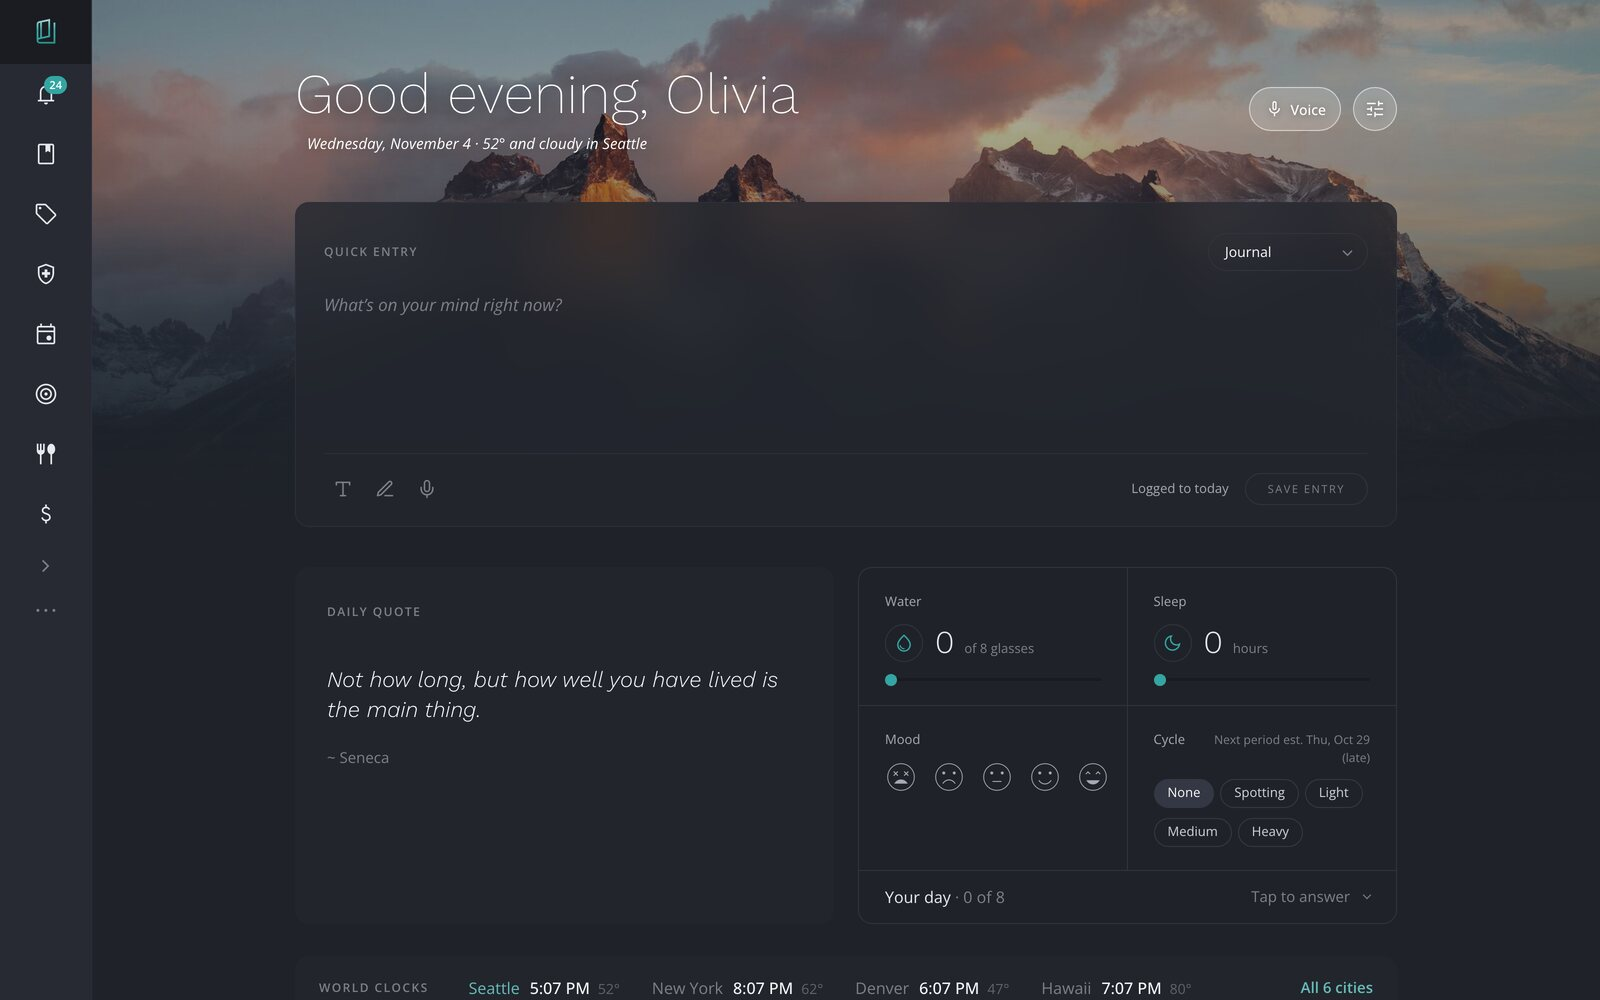
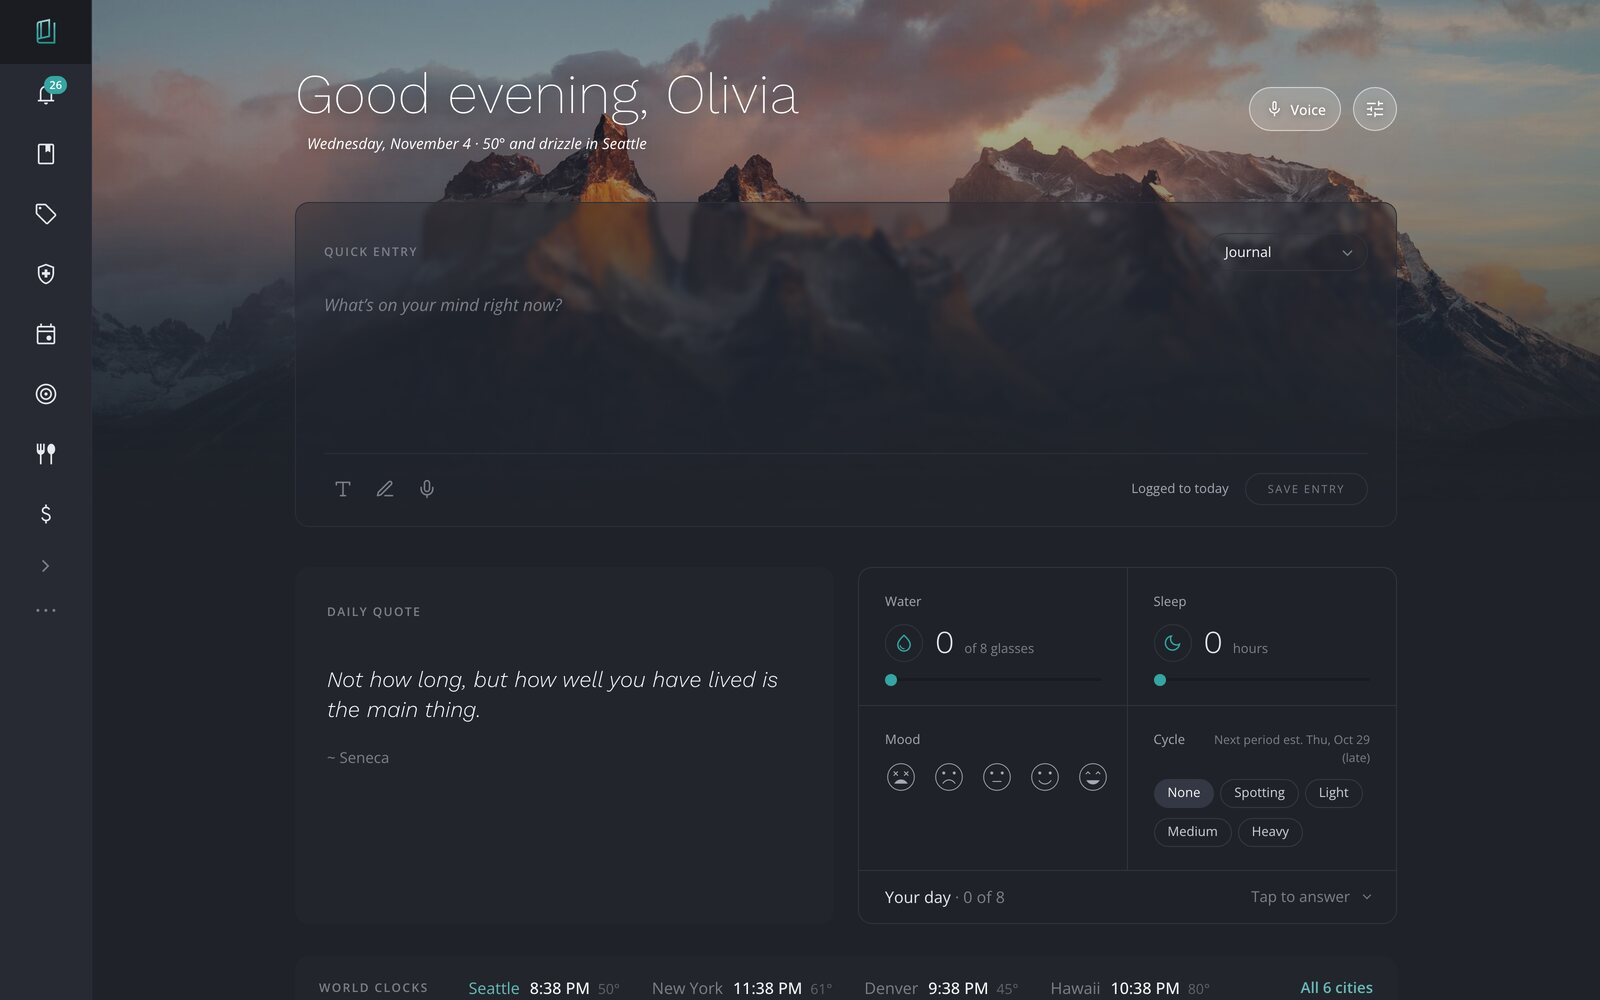
Quick entry shows the photo through it; new dashboard shots; README screenshots
- On a wallpaper the dashboard's Quick entry is lighter (40%) with only a
  slight blur (3px), so the photo shows through; other cards keep the frost
- Dashboard hero (light, dark) and features shots retaken
- README points at the repo's current screenshots (dashboard, journal, topics,
  planning, kitchen, finance, settings); Finance text no longer mentions the
  removed paycheck reconcile

diff --git a/client/src/styles/wallpaper.ts b/client/src/styles/wallpaper.ts
@@ -5,12 +5,14 @@ import { css } from 'styled-components';
    a little see-through with the photo blurred behind them, controls a light
    glass pill, and the page's title text white. Nothing changes without one. */
 
-/** Cards: the panel colour, a little see-through, the photo blurred behind */
+/** Cards: the panel colour, a little see-through, the photo blurred behind.
+ *  --glass-solid / --glass-blur set how much (the Quick entry lowers both so
+ *  the photo shows through it) */
 export const glassCard = css`
   html[data-wallpaper] & {
-    background: color-mix(in srgb, var(--bg-panel) 76%, transparent);
-    -webkit-backdrop-filter: blur(22px) saturate(1.15);
-    backdrop-filter: blur(22px) saturate(1.15);
+    background: color-mix(in srgb, var(--bg-panel) var(--glass-solid, 76%), transparent);
+    -webkit-backdrop-filter: blur(var(--glass-blur, 22px)) saturate(1.15);
+    backdrop-filter: blur(var(--glass-blur, 22px)) saturate(1.15);
   }
 `;
 

diff --git a/client/src/components/organisms/EntryForm.tsx b/client/src/components/organisms/EntryForm.tsx
@@ -405,6 +405,9 @@ const QuickCard = styled.section`
   font-family: var(--font-sans);
   @media (max-width: 768px) { padding: 22px 24px 26px; }
   @media (max-width: 480px) { padding: 20px 18px 22px; }
+  /* On a wallpaper the photo shows through the Quick entry: a lighter fill and
+     only a slight blur (the other cards keep the usual frost) */
+  html[data-wallpaper] & { --glass-solid: 40%; --glass-blur: 3px; }
   ${glassCard}
 `;
 

diff --git a/CLAUDE.md b/CLAUDE.md
@@ -585,7 +585,7 @@ const posts = await getAllPosts(req.auth.tenantSchemaName);
 - Features: enable/disable health tracking, planning, entertainment, and more per topic type; opt-in Finance
 - Calendar Sync: Google gets only an event's title, times and location (`toGooglePayload` has no description; `canonicalizePayload` keeps a blank description slot so older hashes still match). Events Chronicles created get their old description cleared once (`_sync.detailsCleared`); an imported event's own Google description is never touched; a linked entry's notes / phone / attendees are never overwritten from Google (`fromGoogleEvent` reads the description only `withDetails`, on import). Under the Apple Calendar feed, **Include event details** (`icsIncludeDetails`, private, off by default) — the feed is stored readable on the server, so without it the feed carries only title, time and place, no descriptions (`icsPhase` in `services/calendarSync.ts`)
 - Theme: header color (40+), **Light / Dark / Auto** — Auto follows the local clock (light 7 AM – 7 PM, dark otherwise; `utils/autoTheme.ts`). The saved `themeMode` setting holds the choice (`'light' | 'dark' | 'auto'`); `uiStore.themePreference` is that choice and `uiStore.themeMode` the theme in effect (everything that styles by theme reads `themeMode`). While Auto is on, `App.tsx` re-checks every minute and when the tab returns. **No flash on load**: the choice is remembered per browser (`rememberTheme` / `startingTheme` in `utils/autoTheme.ts`, `localStorage` `chronicles.theme-v1`, written by `setThemePreference`), so a fresh load — and the sign-in pages, before any settings are read — starts in it, **light** when nothing's remembered; `main.tsx` sets `data-theme` and the page colour (`PAGE_COLOR`) before the first render, `App.tsx` applies the tokens in a layout effect (before paint) and keeps `<meta name="theme-color">` on the page colour; `index.html`'s fallback background and the PWA manifest's `theme_color` / `background_color` (the launch screen) are the light `#f4f5f7`
-- **Background** (Settings → Theme): a wallpaper — by default Marek Piwnicki's mountains at sunset (`DEFAULT_WALLPAPER`, the one in the landing screenshots) — or **None** — 27 Unsplash photos (`utils/wallpapers.ts`: id, photographer, the photo's page; credits come from Unsplash's file names, `name-<11-char id>-unsplash.jpg`). Served from `public/wallpapers/<id>.jpg` (2,400px, ~500 KB) and `public/wallpapers/thumbs/` (480 × 300), fetched only once chosen — never precached (a `CacheFirst` runtime cache keeps the chosen one for offline); the originals sit in `src/assets/wallpaper/`, git-ignored. The picker (`molecules/WallpaperPicker.tsx`) is a grid of thumbnails, each with its credit on it — "Photo by <name> on Unsplash", linking to the photo and Unsplash — the chosen one outlined in the accent with a tick. Saved as the sealed setting `wallpaper` (in `SEALED_SETTING_KEYS`, loaded by `WallpaperSync` in `App.tsx`): a photo's id, or `'none'` (`NO_WALLPAPER`) for None — nothing saved means the default, and a photo since removed falls back to it (`resolveWallpaper`) and remembered per browser (`localStorage` `chronicles.wallpaper-v1`) so a reload shows it at once; `uiStore.wallpaper`. `organisms/Wallpaper.tsx` draws it at the top of every signed-in page but the Calendar (its grid starts at the very top — no header room, and dates over a photo don't read) (`ContentTemplate`'s `Main`, `JournalTemplate`'s `Page`, `SettingsTemplate`'s `Body` — each `position: relative; isolation: isolate`, so the photo, at `z-index: -1`, sits over the page colour and under the content): `min(300px, 38vh)` tall on every page (positioned `center 55%`) — the title, its header controls and the tabs, faded out by a long eased mask (solid to 22%, thinning gradually to nothing at its foot — no visible edge) before the content and any second title start (the dashboard's is `min(520px, 60vh)`, behind the frosted Quick entry — `ContentTemplate`'s `wallpaperHeight`), a light shade at the top (deeper in dark, so a bright photo still sits in the dark page), masked to fade into the page colour, scrolling away with the page — most pages scroll inside a full-height panel of their own rather than the element the photo sits in, so the layer follows that panel's scroll (a capture-phase scroll listener on its parent translates it; scrolling boxes under 70% of the page's height — tables, the menu grid — are ignored; each page mounts its own layer, so it starts unscrolled; the journal passes `follow={false}`, its title row never scrolls) — fading in once loaded. While it shows, `<html data-wallpaper>` switches on `styles/wallpaper.ts`: `glassCard` (cards see-through panel colour + a blurred photo — Quick entry, the dashboard's widget, Next up / quote and clocks cards, `DashPanel`, `CollapsibleCard`), `glassControl` (fields on the photo, frosted page colour solid enough to read — the journal's search and Today / All / Bookmarks, `RoundSearch`, Planning's search / sort / List | Board / filter pills, the ⋯ view menu, `FilterTabs`, `JoinedGroup`, Finance's `MonthPillBox`), `glassPill` (buttons on the photo as white glass pills with white text — Voice, the sliders, the journal's New entry; and every page's main action beside its title through `TopBarAction`'s `.page-action` wrapper, GlobalStyle) and `onPhoto` / the `.view-title` rule (the greeting, its date line and every page title in white with a soft shadow), the section tabs (`SectionTab`: white text with a shadow, the chosen one full white over its accent underline, a light rule) and clear list rows (`entryRowPlain` reads `--row-plain-bg`, set transparent under `html[data-wallpaper]`, so Topics and the other lists don't stripe the photo; hover and the active row keep their fills); in the journal the list and editor panels go transparent with their top bars frosted (`glassBar` — the tool row, the date bar, Bulk edit, the editor's top bar) while the entry rows and the editor's body stay solid page colour (`solidUnderPhoto`), so the photo never runs behind content
+- **Background** (Settings → Theme): a wallpaper — by default Marek Piwnicki's mountains at sunset (`DEFAULT_WALLPAPER`, the one in the landing screenshots) — or **None** — 27 Unsplash photos (`utils/wallpapers.ts`: id, photographer, the photo's page; credits come from Unsplash's file names, `name-<11-char id>-unsplash.jpg`). Served from `public/wallpapers/<id>.jpg` (2,400px, ~500 KB) and `public/wallpapers/thumbs/` (480 × 300), fetched only once chosen — never precached (a `CacheFirst` runtime cache keeps the chosen one for offline); the originals sit in `src/assets/wallpaper/`, git-ignored. The picker (`molecules/WallpaperPicker.tsx`) is a grid of thumbnails, each with its credit on it — "Photo by <name> on Unsplash", linking to the photo and Unsplash — the chosen one outlined in the accent with a tick. Saved as the sealed setting `wallpaper` (in `SEALED_SETTING_KEYS`, loaded by `WallpaperSync` in `App.tsx`): a photo's id, or `'none'` (`NO_WALLPAPER`) for None — nothing saved means the default, and a photo since removed falls back to it (`resolveWallpaper`) and remembered per browser (`localStorage` `chronicles.wallpaper-v1`) so a reload shows it at once; `uiStore.wallpaper`. `organisms/Wallpaper.tsx` draws it at the top of every signed-in page but the Calendar (its grid starts at the very top — no header room, and dates over a photo don't read) (`ContentTemplate`'s `Main`, `JournalTemplate`'s `Page`, `SettingsTemplate`'s `Body` — each `position: relative; isolation: isolate`, so the photo, at `z-index: -1`, sits over the page colour and under the content): `min(300px, 38vh)` tall on every page (positioned `center 55%`) — the title, its header controls and the tabs, faded out by a long eased mask (solid to 22%, thinning gradually to nothing at its foot — no visible edge) before the content and any second title start (the dashboard's is `min(520px, 60vh)`, behind the frosted Quick entry — `ContentTemplate`'s `wallpaperHeight`), a light shade at the top (deeper in dark, so a bright photo still sits in the dark page), masked to fade into the page colour, scrolling away with the page — most pages scroll inside a full-height panel of their own rather than the element the photo sits in, so the layer follows that panel's scroll (a capture-phase scroll listener on its parent translates it; scrolling boxes under 70% of the page's height — tables, the menu grid — are ignored; each page mounts its own layer, so it starts unscrolled; the journal passes `follow={false}`, its title row never scrolls) — fading in once loaded. While it shows, `<html data-wallpaper>` switches on `styles/wallpaper.ts`: `glassCard` (cards see-through panel colour + a blurred photo — Quick entry, the dashboard's widget, Next up / quote and clocks cards, `DashPanel`, `CollapsibleCard`; how solid is `--glass-solid` and how blurred `--glass-blur`: 76% and 22px by default; the dashboard's Quick entry card sets 40% and 3px, so the photo shows through it), `glassControl` (fields on the photo, frosted page colour solid enough to read — the journal's search and Today / All / Bookmarks, `RoundSearch`, Planning's search / sort / List | Board / filter pills, the ⋯ view menu, `FilterTabs`, `JoinedGroup`, Finance's `MonthPillBox`), `glassPill` (buttons on the photo as white glass pills with white text — Voice, the sliders, the journal's New entry; and every page's main action beside its title through `TopBarAction`'s `.page-action` wrapper, GlobalStyle) and `onPhoto` / the `.view-title` rule (the greeting, its date line and every page title in white with a soft shadow), the section tabs (`SectionTab`: white text with a shadow, the chosen one full white over its accent underline, a light rule) and clear list rows (`entryRowPlain` reads `--row-plain-bg`, set transparent under `html[data-wallpaper]`, so Topics and the other lists don't stripe the photo; hover and the active row keep their fills); in the journal the list and editor panels go transparent with their top bars frosted (`glassBar` — the tool row, the date bar, Bulk edit, the editor's top bar) while the entry rows and the editor's body stay solid page colour (`solidUnderPhoto`), so the photo never runs behind content
 - Data: Export All (and per-area exports); seed test data in development builds only
 
 **Entry Images**

diff --git a/README.md b/README.md
@@ -6,14 +6,15 @@ Chronicles is now available to sign up for beta testing at [mydailychronicles.co
 
 ### Dashboard
 Your day at a glance, in light or dark mode: a greeting with the date and local weather, a daily quote or your next medications, a wellness check-in for water, sleep, mood and cycle, world clocks, today's priorities, what's coming up, today's menu, your medication doses and your open shopping list. Choose which sections show with **Customize view**.
-<img width="1600" height="1000" alt="dashboard-dark" src="https://github.com/user-attachments/assets/553e4f1e-126a-46c5-8ae0-cedbc3c99034" />
-<img width="1268" height="1300" alt="dashboard" src="https://github.com/user-attachments/assets/4730ff94-ecf0-4fe6-82c5-cd69398f5411" />
+<img width="1600" height="1000" alt="The dashboard in light mode with a mountain photo behind the greeting and Quick entry" src="client/src/assets/landing/dashboard.jpg" />
+<img width="1600" height="1000" alt="The dashboard in dark mode" src="client/src/assets/landing/dashboard-dark.jpg" />
+<img width="1268" height="1300" alt="The top of the dashboard: the greeting, Quick entry, daily quote, wellness check-in and world clocks" src="client/src/assets/landing/features/dashboard.jpg" />
 <img width="1268" height="1300" alt="dashboard-2" src="https://github.com/user-attachments/assets/be1ce9b0-5700-4340-a0e2-94758b429036" />
 
 ### Journal
 The main view, and where the app opens. Pick a topic, write a line (or fill in the topic's fields) and save. Entries are grouped by month, with Today, All and Bookmarks views and search by keyword, topic and date. The editor has rich text, encrypted photos stored in your own Cloudflare R2 bucket( Bring your key), voice dictation, Apple Pencil handwriting and drawing, bookmarks and public share links. Open an entry from any other page and saving takes you back there.
 
-<img width="1460" height="738" alt="Screenshot 2026-10-17 at 9 44 50 PM" src="https://github.com/user-attachments/assets/063bd93e-17e8-4b6b-9951-366ab3ef7b8c" />
+<img width="1268" height="1000" alt="The journal with entries by month and an entry open" src="client/src/assets/landing/features/journal.jpg" />
 
 ### Health
 A health dashboard with today's nutrition against your goals, a wellness check-in, quick meal and exercise logging and your medication schedule, plus tabs for Meals, Exercise, Symptoms, Med list and Allergies. Marking a dose taken adds its nutrients (a vitamin D supplement, say) to the day's totals. Reports chart water, mood and sleep over time, symptom frequency and severity, and the patterns between them, such as how water, foods or exercise relate to your symptoms. Medication lists, symptom logs and allergy records print for appointments.
@@ -33,14 +34,16 @@ Optional, and you bring your own key from OpenAI, Claude (Anthropic) or Amazon B
 ### Topics
 Entries are organized by topic — tasks, goals, meals, medication, recipes, books, quotes and more — or your own. Add, remove and reorder topics, choose their icons and give them custom fields (text, number, date, yes/no, link). Each topic's page lists its entries by month, with search. A topic can hide the text area so its entries are fields only, titled from what you filled in ("Piranesi — Susanna Clarke").
 
-<img width="1454" height="746" alt="Screenshot 2026-10-17 at 9 47 38 PM" src="https://github.com/user-attachments/assets/c7177ae8-6287-44d3-97d3-58ea72660437" />
+<img width="1268" height="1000" alt="The Topics list with an icon and entry count for each topic" src="client/src/assets/landing/features/topics.jpg" />
 <img width="1464" height="731" alt="Screenshot 2026-10-17 at 9 47 49 PM" src="https://github.com/user-attachments/assets/9dbbb374-3cd1-4ea6-bb44-382f754a276f" />
 
 ### Planning
 Goals, milestones, tasks and todos on Kanban boards or as lists. Drag a card to another column to change its status, or up and down to set its order. Milestones roll up into goals and tasks into milestones. Search, sort and filter by goal, milestone or status, and save the views you use often.
 
-<img width="1460" height="732" alt="Screenshot 2026-10-17 at 9 52 16 PM" src="https://github.com/user-attachments/assets/c3f87add-04a1-4e2b-afe0-4ad9d32a6ea5" />
-<img width="1455" height="734" alt="Screenshot 2026-10-17 at 9 52 02 PM" src="https://github.com/user-attachments/assets/bf3f6c0e-b0c3-4acb-9267-faffa85be020" />
+<img width="1268" height="900" alt="Tasks by status with priorities, deadlines and the milestone they roll up to" src="client/src/assets/landing/features/planning-tasks.jpg" />
+<img width="1268" height="900" alt="The goals board with columns from New to Achieved" src="client/src/assets/landing/features/planning.jpg" />
+<img width="1268" height="900" alt="Milestones on their own board, each under its goal" src="client/src/assets/landing/features/planning-milestones.jpg" />
+<img width="1268" height="900" alt="Todos as a list, with done ones struck through" src="client/src/assets/landing/features/planning-todos.jpg" />
 
 ### Calendar
 Day, week and month views of what's scheduled: events, meetings, task deadlines, goal target dates and bills due. Two-way sync with Google Calendar and a private subscription feed for Apple Calendar. Only titles, times and locations are synced, never your journal.
@@ -50,17 +53,17 @@ Day, week and month views of what's scheduled: events, meetings, task deadlines,
 ### From the Kitchen
 A kitchen dashboard with today's meals and your shopping list, a weekly menu planner, recipes and shopping lists. Recipes have checkable ingredients, numbered steps, a photo and a print view. Link recipes to menu slots and shopping lists, and turn a week's menu into a shopping list in one tap.
 
-<img width="1458" height="735" alt="Screenshot 2026-10-17 at 9 54 58 PM" src="https://github.com/user-attachments/assets/254e2ef1-d66c-4d53-b66e-b8d8fec047b9" />
+<img width="1600" height="1000" alt="The kitchen dashboard with today's meals and the shopping list" src="client/src/assets/landing/kitchen.jpg" />
 <img width="1450" height="740" alt="Screenshot 2026-10-17 at 9 55 07 PM" src="https://github.com/user-attachments/assets/0670fe02-87e2-422e-83fe-48a1da800f8c" />
 <img width="1120" height="743" alt="Screenshot 2026-10-17 at 9 56 35 PM" src="https://github.com/user-attachments/assets/f2934c16-c80b-410c-a2a7-08f794a5b4d7" />
 <img width="1455" height="726" alt="Screenshot 2026-10-17 at 9 55 39 PM" src="https://github.com/user-attachments/assets/af53e857-de29-423e-bebb-e1e696db768d" />
 
 ### Finance (optional)
-Off until you turn it on in Settings. A manual budget by category, bills and subscriptions (mark paid, pause, cancel), savings funds, money goals, and reports on what you've paid by bill, category, month or year, with an optional paycheck reconcile. It's all encrypted in your browser and there are no bank connections. Export everything as CSV spreadsheets plus a JSON backup. See the [Finance disclaimer](#finance).
+Off until you turn it on in Settings. A manual budget by category, bills and subscriptions (mark paid, pause, cancel), savings funds, money goals, a current balance that keeps itself up to date as you pay bills and log spending, and reports on what you've paid by bill, category, month or year. It's all encrypted in your browser and there are no bank connections. Export everything as CSV spreadsheets plus a JSON backup. See the [Finance disclaimer](#finance).
 
-<img width="1464" height="739" alt="Screenshot 2026-10-17 at 9 52 36 PM" src="https://github.com/user-attachments/assets/67bd72a4-63e2-4dbd-8748-890fd9ed1fda" />
-<img width="1448" height="743" alt="Screenshot 2026-10-17 at 9 52 47 PM" src="https://github.com/user-attachments/assets/dfa05480-7530-47ab-80c5-e4eac0ced4ad" />
-<img width="1460" height="739" alt="Screenshot 2026-10-17 at 9 52 58 PM" src="https://github.com/user-attachments/assets/ea31a2eb-9e5a-486a-9f21-04ed740edae1" />
+<img width="1268" height="1440" alt="The budget with the current balance, and planned, bills, spending and what's left by category" src="client/src/assets/landing/features/finance.jpg" />
+<img width="1268" height="1440" alt="Bills and subscriptions with what's due and overdue" src="client/src/assets/landing/features/finance-bills.jpg" />
+<img width="1268" height="1440" alt="Savings funds with their targets and entries" src="client/src/assets/landing/features/finance-savings.jpg" />
 <img width="1454" height="737" alt="Screenshot 2026-10-17 at 9 53 09 PM" src="https://github.com/user-attachments/assets/043bcf4c-5563-4dde-9af6-c1b55f2c12c0" />
 <img width="1461" height="724" alt="Screenshot 2026-10-17 at 9 53 24 PM" src="https://github.com/user-attachments/assets/614fc048-3aa9-4fcf-89c8-5bb58ef5f0dd" />
 <img width="1109" height="742" alt="Screenshot 2026-10-17 at 9 56 44 PM" src="https://github.com/user-attachments/assets/08c2d2f0-aff8-4c55-abef-bc7cd312eabd" />
@@ -68,7 +71,7 @@ Off until you turn it on in Settings. A manual budget by category, bills and sub
 ### Settings
 Your account, theme (light or dark and 30 accent colors), which features are on, calendar sync, entry images, In-App AI, security (two-factor authentication, Remember me, active sessions, recovery key) and data import and export. Every section folds away.
 
-<img width="1456" height="734" alt="Screenshot 2026-10-17 at 9 55 55 PM" src="https://github.com/user-attachments/assets/28b58f16-c629-446f-ac54-75acaaded3dd" />
+<img width="1600" height="1000" alt="Settings with the Theme section open: light, dark or auto, and the background photos" src="client/src/assets/landing/settings.jpg" />
 
 ## Privacy & Security
 
